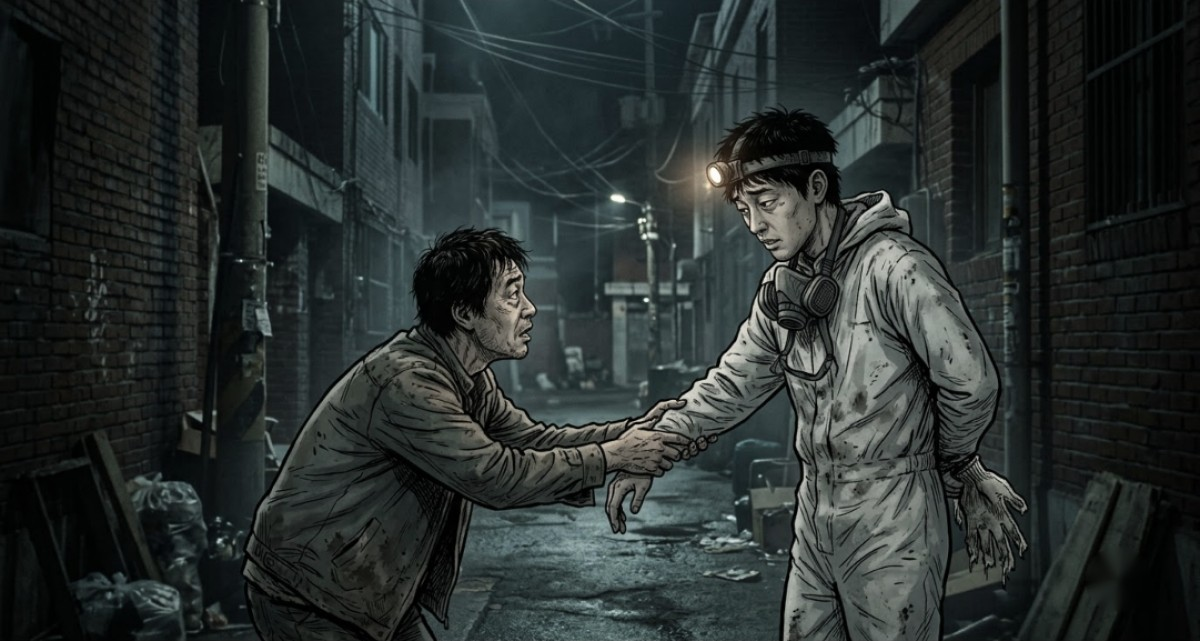
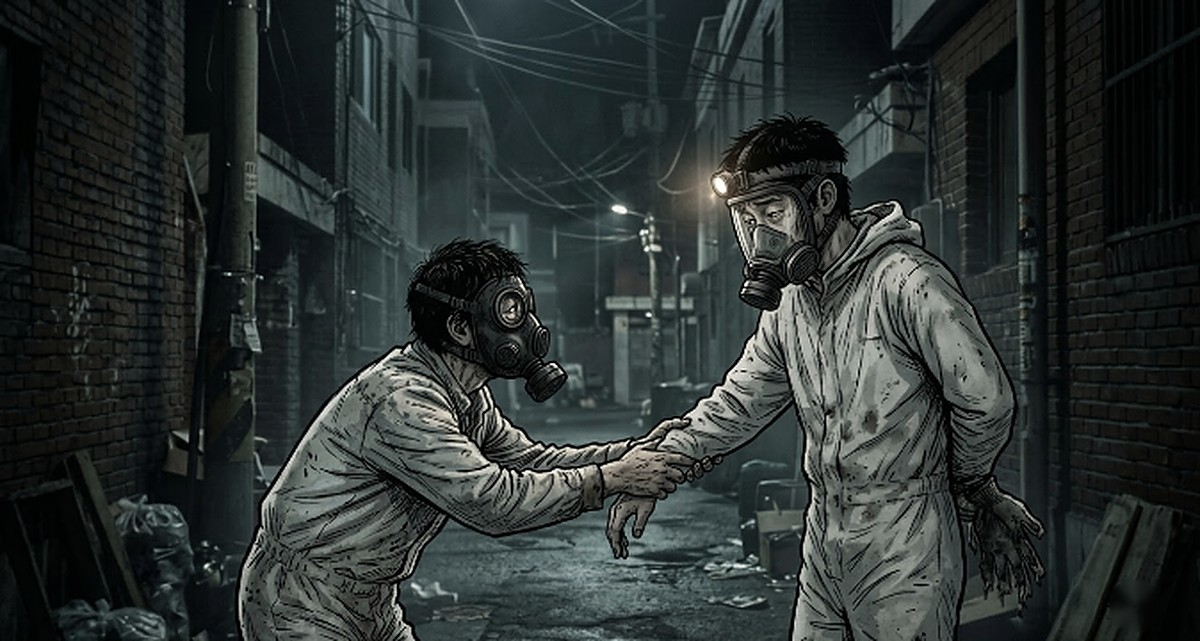
11화 매몰 컷·기화 마스크 수정, 호출기 전쟁 실외 인물 전원 방독면 (Flow 재생성)
Claude-Session: https://claude.ai/code/session_018twa3QMQYz3PY4RAJxVLUb

diff --git a/ep07v/index.html b/ep07v/index.html
@@ -275,7 +275,7 @@ html.mo .snd{animation:mo-fade 1s ease-out 1.2s backwards}
   <div class="p"><img src="v01.jpg" alt="검은 핏줄이 목을 타고 오르는 채 골목을 걷는 방역복 청년"><div class="cap" style="left:3%;top:5%">깨진 보호구 틈으로,<br>이미 들어와 있었다.</div></div>
     <div class="p"><img src="zs02.jpg" alt="울리는 휴대폰을 웅덩이에 떨어뜨리는 검은 핏줄의 손"><div class="bub sm br" style="left:58%;top:5%">(전화) 물건은? 야, 대답 안 해?</div><div class="sfx" style="left:6%;top:60%">첨벙</div></div>
   <div class="p"><img src="v02.jpg" alt="골목 끝, 무너진 철판에 깔려 손을 뻗는 방역복 남자"><div class="bub sm br" style="left:28%;top:4%">살려 주세요…!</div></div>
-    <div class="p"><img src="zs03.jpg" alt="철판에 깔린 남자 앞에서 자신의 검게 변한 손을 내려다보며 멈칫하는 청년"><div class="bub sm br" style="left:58%;top:5%">…가까이 오지 마세요. 저 지금…</div><div class="bub sm bl" style="left:3%;top:4%">제발요, 혼자 못 나가요!</div></div>
+    <div class="p"><img src="zs03.jpg" alt="철판에 깔린 남자 앞에서 자신의 검게 변한 손을 내려다보며 멈칫하는 청년"><div class="bub sm br" style="left:14%;top:27%">…가까이 오지 마세요. 저 지금…</div><div class="bub sm bl" style="left:3%;top:4%">제발요, 혼자 못 나가요!</div></div>
   <div class="p tight"><img src="v03.jpg" alt="찢어진 장갑 사이로 번지는 검은 핏줄"></div>
   <div class="p"><img src="v04.jpg" alt="철판을 들어 올려 남자를 꺼내는 청년"></div>
     <div class="p"><img src="zs04.jpg" alt="고맙다며 손을 잡으려는 남자, 찢어진 장갑을 등 뒤로 숨기는 청년"><div class="bub sm br" style="left:58%;top:5%">은인이시네요. 진짜로.</div></div>
